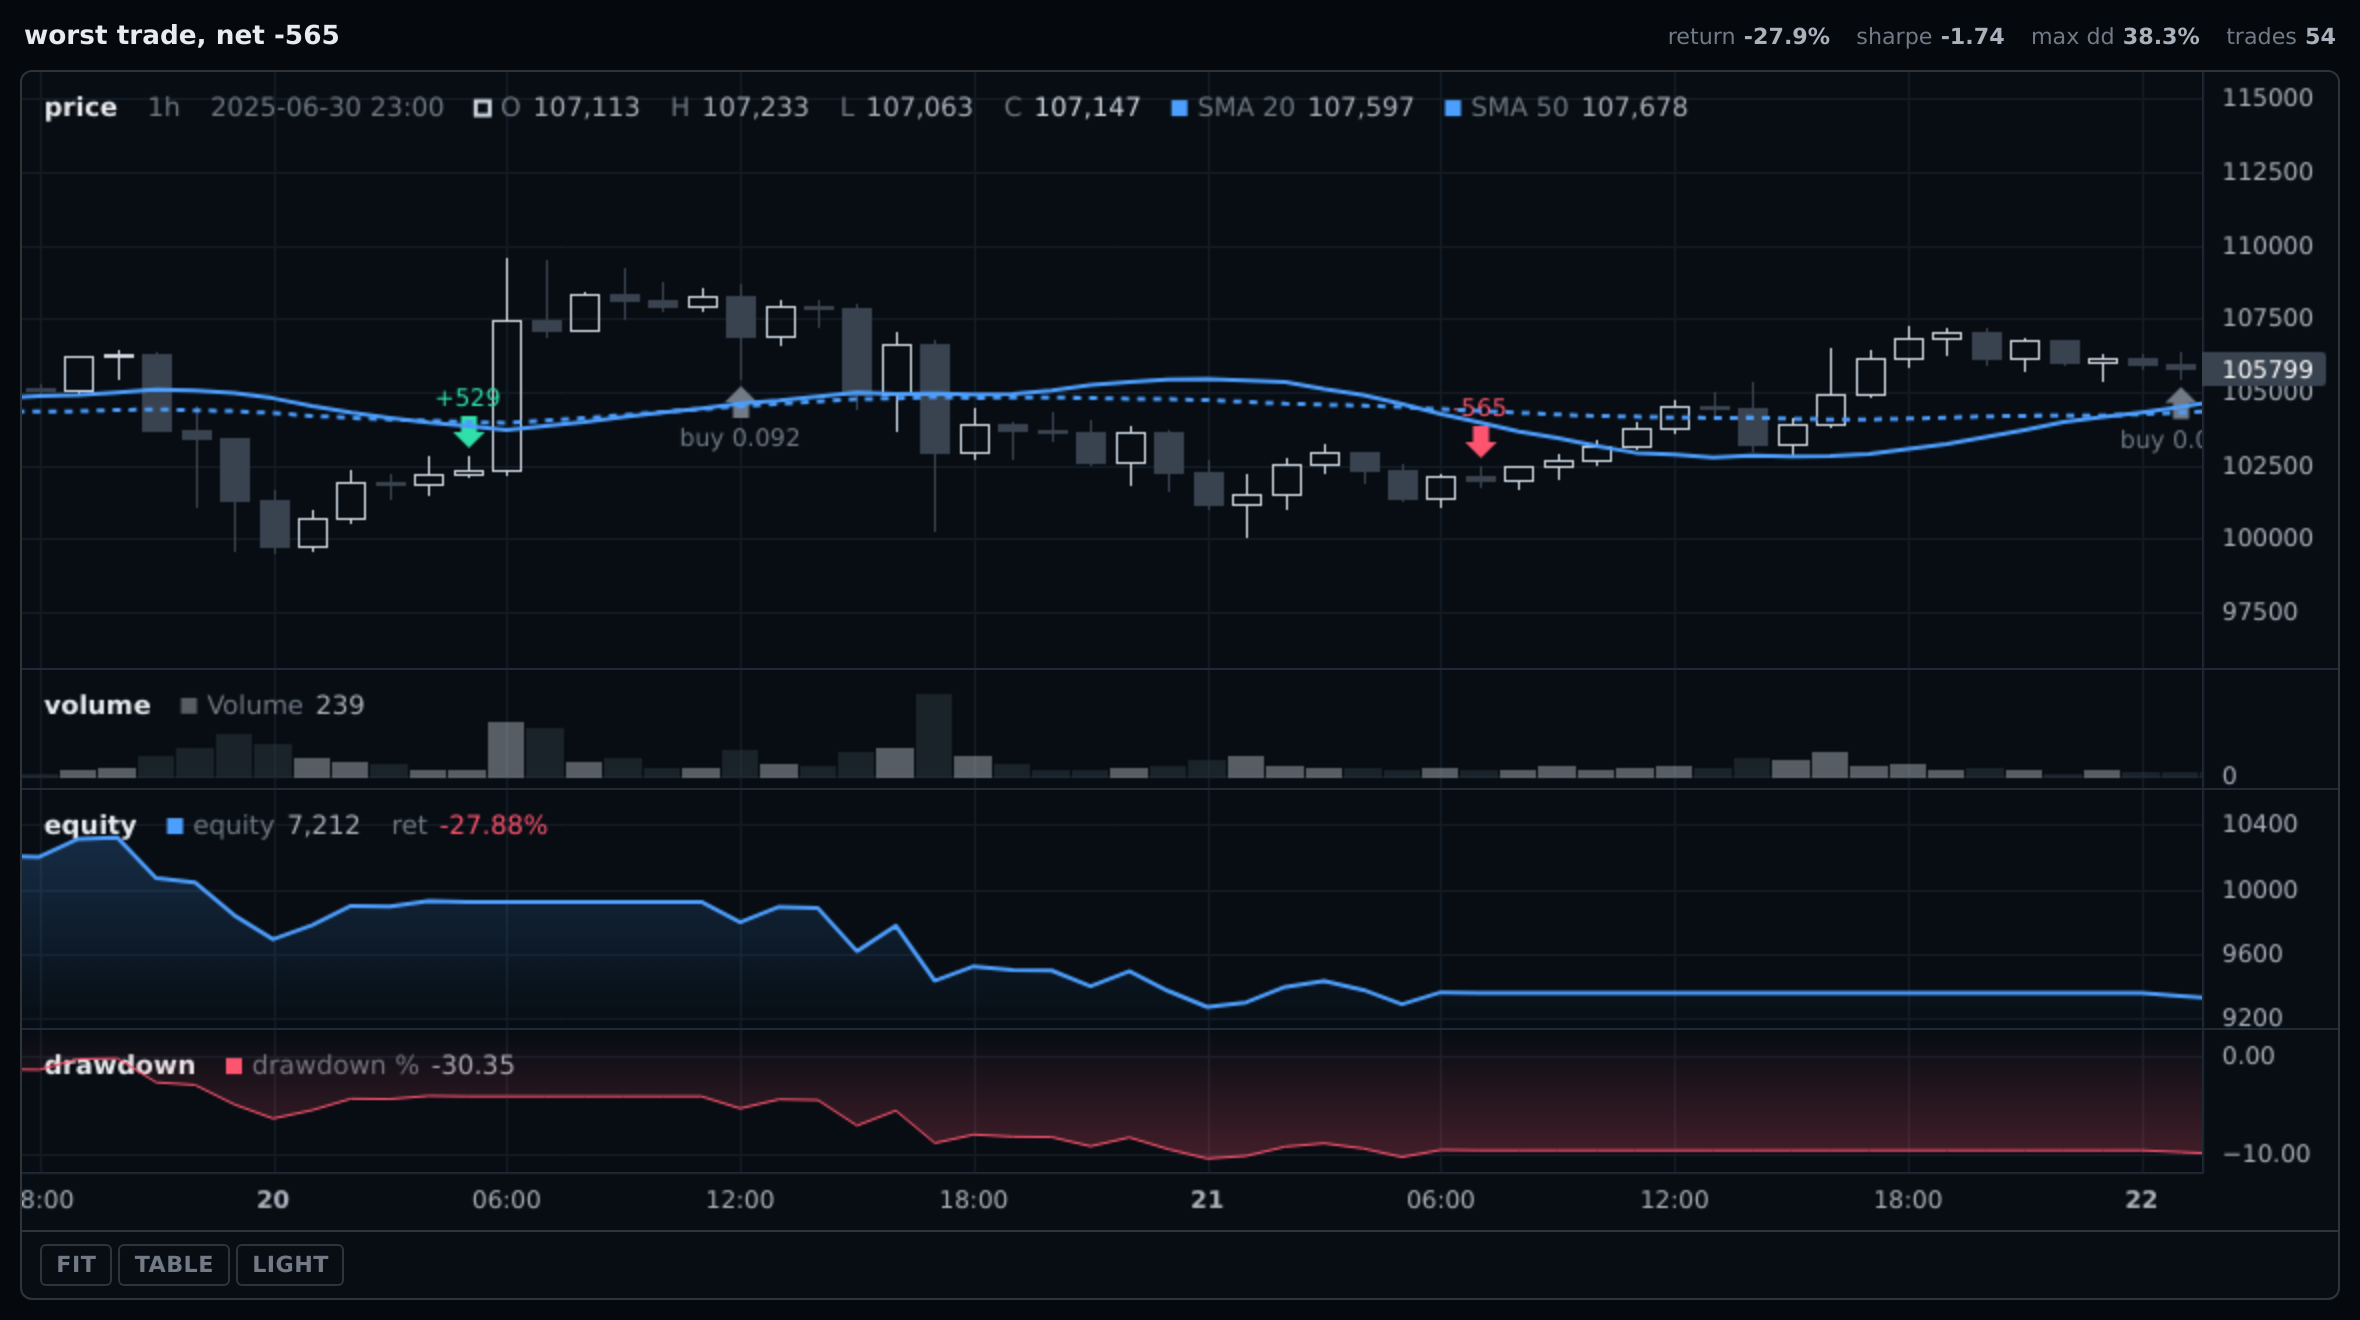
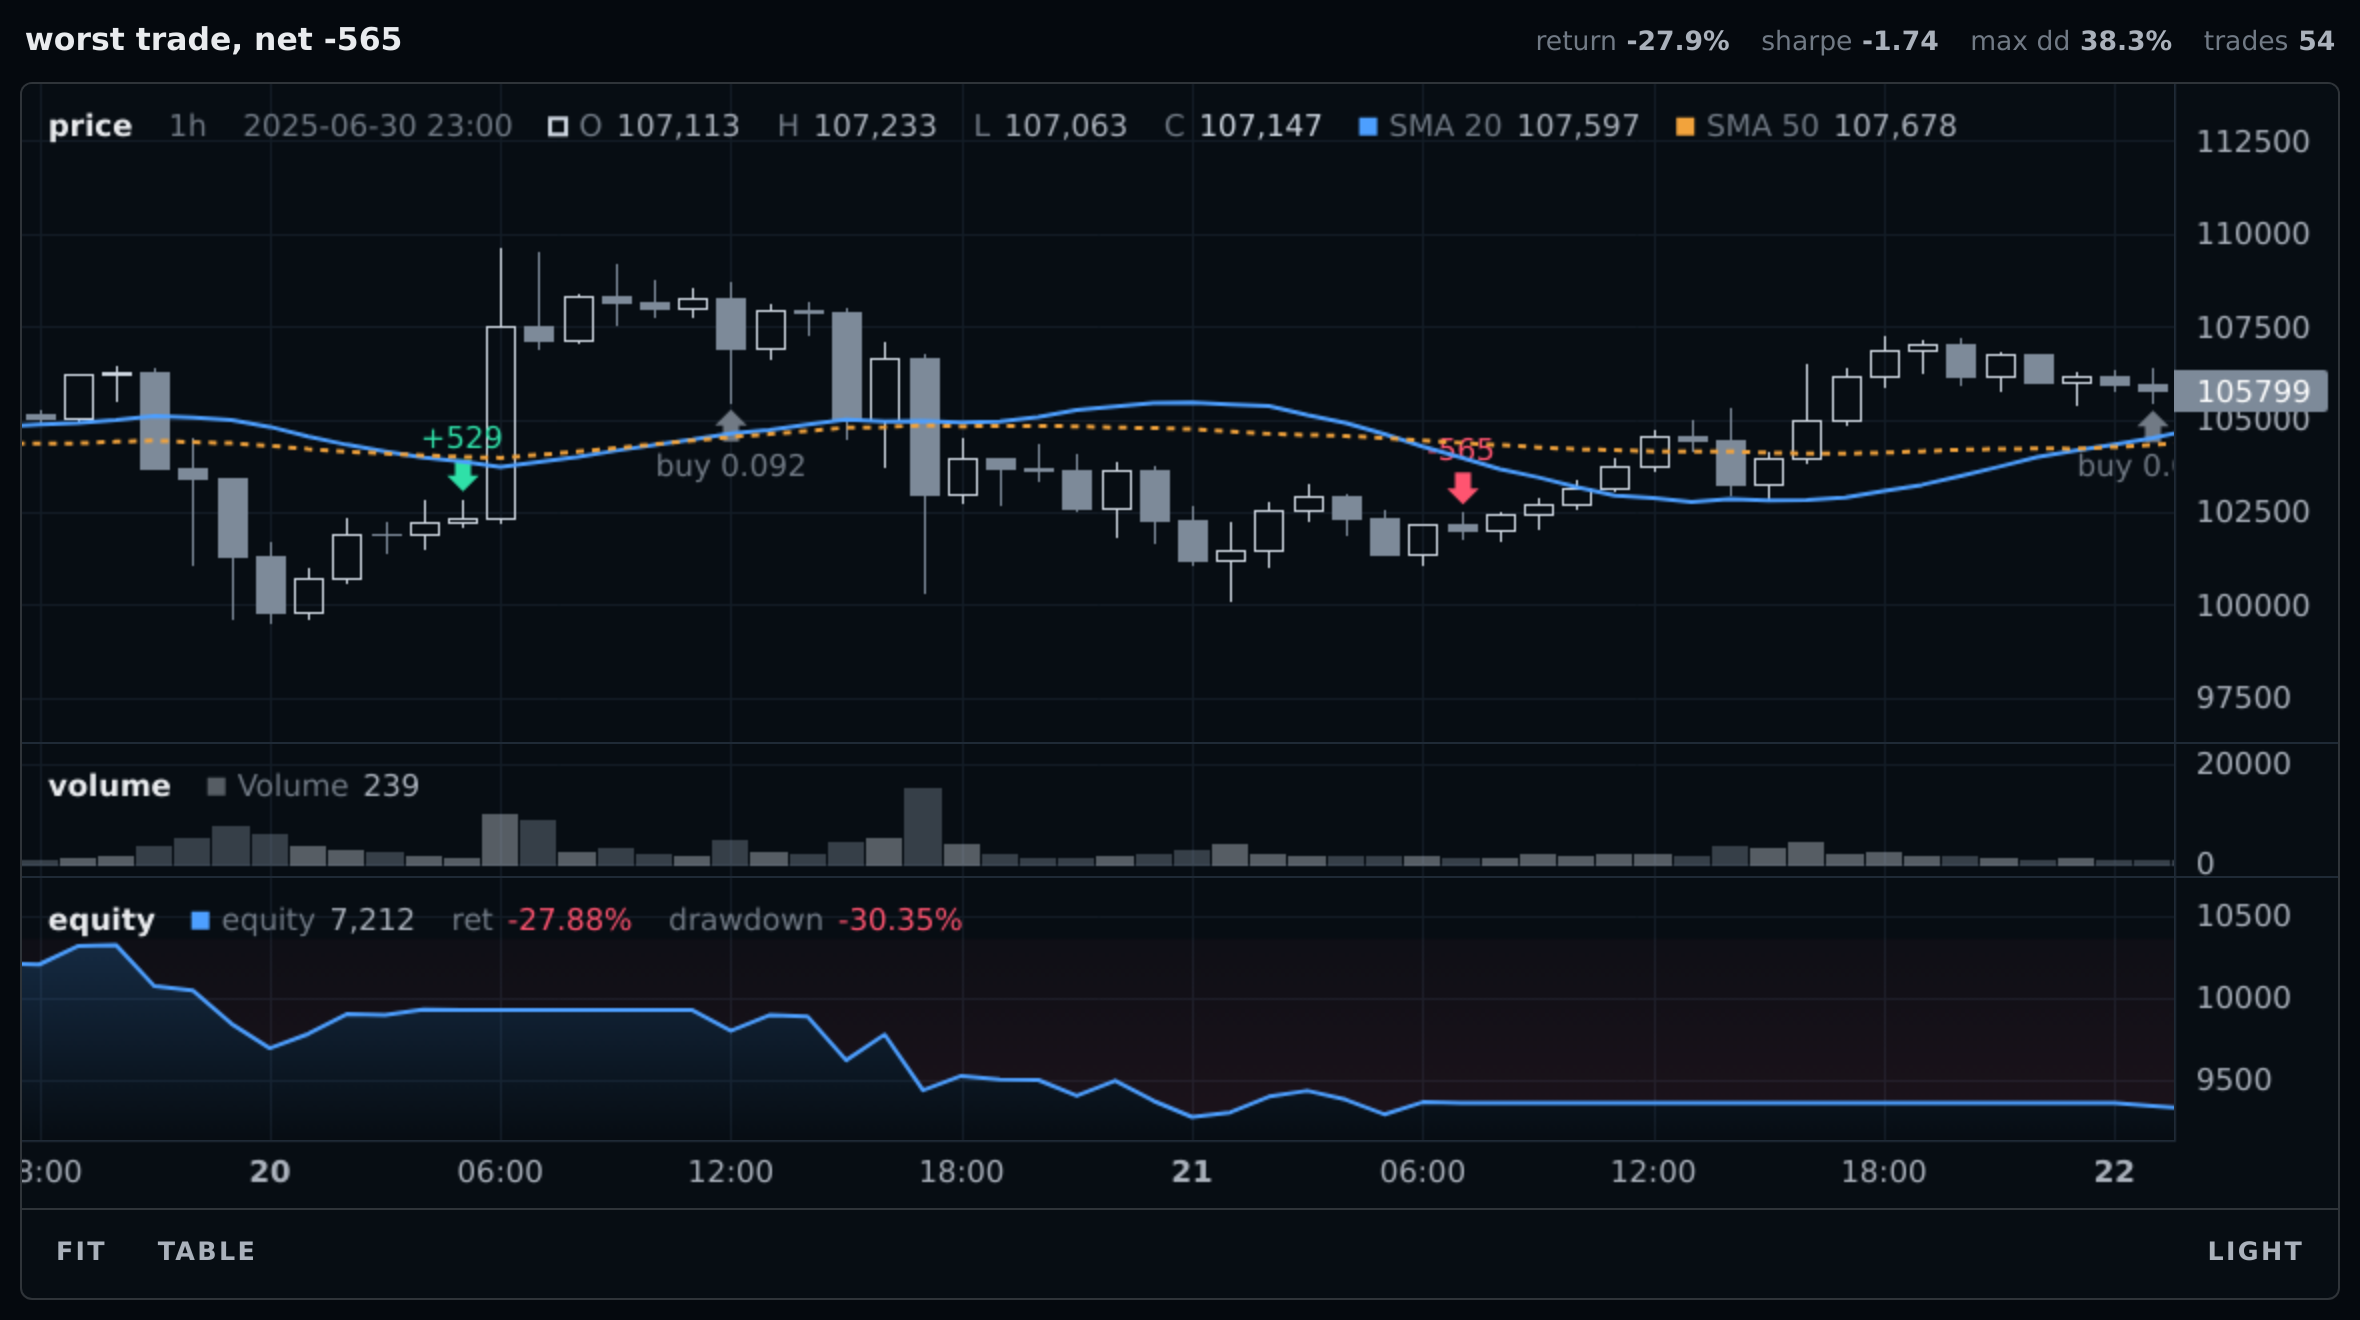
docs: redraw the chart images from the frozen dataset (ADR 0085)
- imgs/charts: all fourteen, not only the ones a drawdown appears in. The type
  scale, the candle colours, the series palette, the pane margins and the
  footer all moved, so every picture in the doc set was showing a chart the
  library no longer draws
- README.md: the hero's alt text said equity and drawdown, which read as two
  panes and is now one

diff --git a/README.md b/README.md
@@ -311,7 +311,7 @@ emsl.chart(
 Those are the arrays the rule decided on, handed over as they are. Nothing here recomputes an indicator, because a recomputed copy is a picture of a rule that was never executed.
 
 <div align="center">
-  <img src=".Documentation/imgs/charts/chart-backtest.png" alt="A backtest drawn: a channel and its basis, a regime shaded behind the candles, the fills on the bars they filled on, a MACD histogram, equity and drawdown" width="100%" />
+  <img src=".Documentation/imgs/charts/chart-backtest.png" alt="A backtest drawn: a channel and its basis, a regime shaded behind the candles, the fills on the bars they filled on, a MACD histogram, and an equity curve with its drawdown shaded onto it" width="100%" />
   <p style="margin: 0;"><i>One call, one year of hourly candles. Five panels, their order, their weights and the trade log are the library's; every mark on them is the strategy's own array</i></p>
 </div>
 
